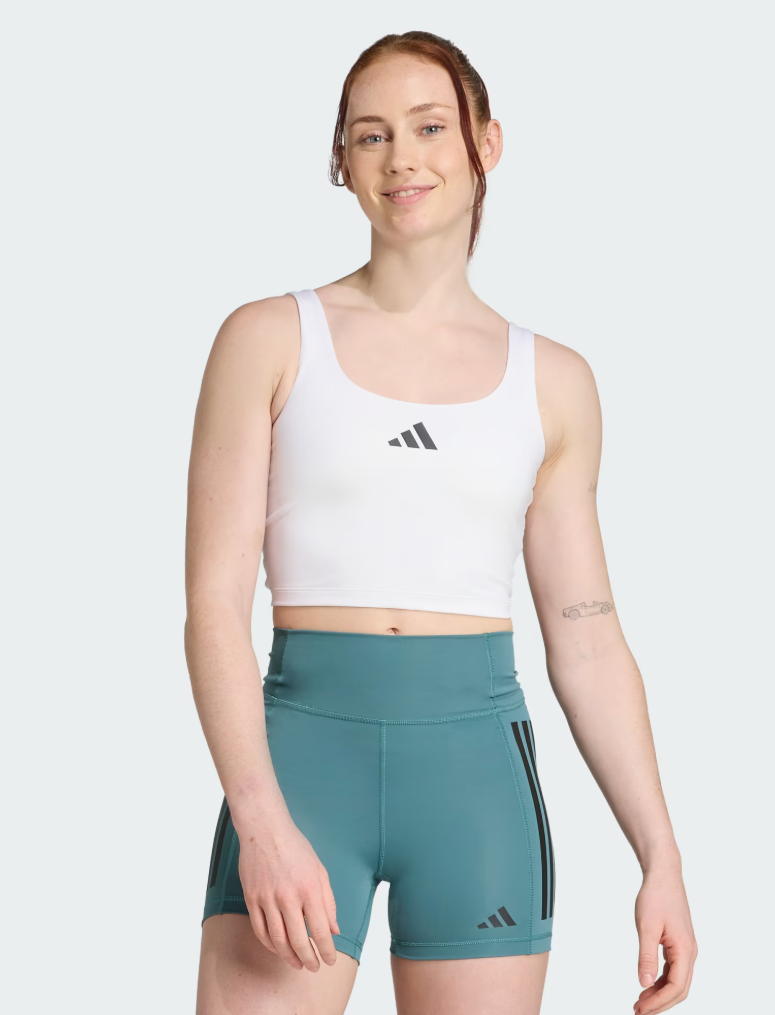
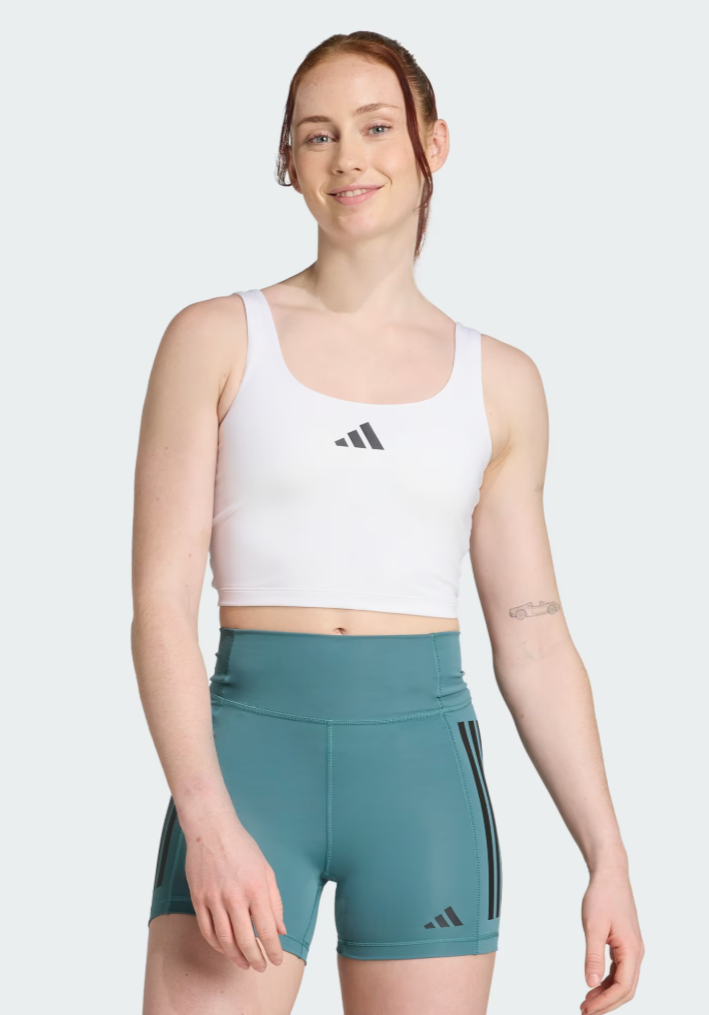
UPDATE Promociones2 acomode fotos

diff --git a/index.html b/index.html
@@ -84,17 +84,17 @@
   <!-- OFERTAS DEL MES -->
   <section id="ofertas">
     <div class="container my-5">
-      <div class="row p-4 pb-0 pe-lg-0 pt-lg-5 align-items-center rounded-3 border shadow-lg">
-        <div class="col-lg-7 p-3 p-lg-5 pt-lg-3">
+      <div class="row p-0 pb-0 pe-lg-0 pt-lg-5 align-items-center rounded-3 border shadow-lg">
+        <div class="col-lg-5 p-3 p-lg-5 pt-lg-3">
           <h1 class="fuenteTitulos mb-3">Ofertas del mes</h1>
           <p class="fuenteTexto mb-4">Disfruta de la mejor calidad a un precio inigualable. Consulta nuestro catalogo de
             mejores ofertas del mes y dejate sorprender.</p>
           <div class="d-grid gap-2 d-md-flex justify-content-md-start mb-4 mb-lg-3">
             <button id="botonComprar" class="btn btn-dark btn-lg px-4">Comprar ahora</button>
           </div>
-          <div class="container px-4 py-5" id="featured-3">
-            <h2 class="pb-2">¡Date Prisa, Antes De Que Sea Tarde!</h2>
-            <div class="row g-4 py-5 row-cols-1 row-cols-lg-4">
+          <div class="container px-0 py-3 justify-content-start " id="featured-3">
+            <h4 class="pb-2">¡Date Prisa, Antes De Que Sea Tarde!</h4>
+            <div class="row g-3 py-3 row-cols-1 row-cols-lg-4 me-5">
               <div class="feature col">
                 <div
                   class="feature-icon d-flex justify-content-center align-items-center border rounded bg-gradient fs-2 mb-3">
@@ -114,31 +114,24 @@
                   class="feature-icon d-flex justify-content-center align-items-center border rounded bg-gradient fs-2 mb-3">
                   <h3 class="fs-2 text-body-emphasis">04</h3>
                 </div>
-                <p class="fs-2">Minutos</p>
+                <p class="fs-2">Min</p>
               </div>
               <div class="feature col">
                 <div
                   class="feature-icon d-flex justify-content-center align-items-center border rounded bg-gradient fs-2 mb-3">
                   <h3 class="fs-2 text-body-emphasis">30</h3>
                 </div>
-                <p class="fs-2">Segundos</p>
+                <p class="fs-2">Seg</p>
               </div>
             </div>
           </div>
         </div>
-        <div class="col-lg-4 offset-lg-1 p-0 overflow-hidden shadow-lg">
-          <div class="row row-cols-1 row-cols-lg-3 align-items-stretch g-4 py-5">
-            <div class="col">
-              <div class="card overflow-hidden text-bg-dark rounded-4 shadow-lg"
-                style="background-image: url('./Pic/model01.png'); width: 100%;">
-                <div class="d-flex flex-column pt-5 text-white text-shadow-1">
-                  <img src="./Pic/" alt="">
-                  <h3 class="pt-5 mt-5 mb-4 display-6 lh-1 fw-bold">Short title, long jacket</h3>
-                </div>
-              </div>
-            </div>
+        <div class="col-lg-7 px-0 p-0 overflow-hidden ">
+          <div class="row row-cols-1 row-cols-lg-3 align-items-stretch g-3 py-0">
+            <img class="figure-img img-fluid rounded" src="/Hackathon-1/Pic/model01.png" alt="Card image cap">
+            <img class="figure-img img-fluid rounded" src="/Hackathon-1/Pic/model02.png" alt="Card image cap">
+            <img class="figure-img img-fluid rounded-lg-3" src="/Hackathon-1/Pic/model03.png" alt="Card image cap" width="720">
           </div>
-          <img class="rounded-lg-3" src="bootstrap-docs.png" alt="" width="720">
         </div>
       </div>
     </div>
